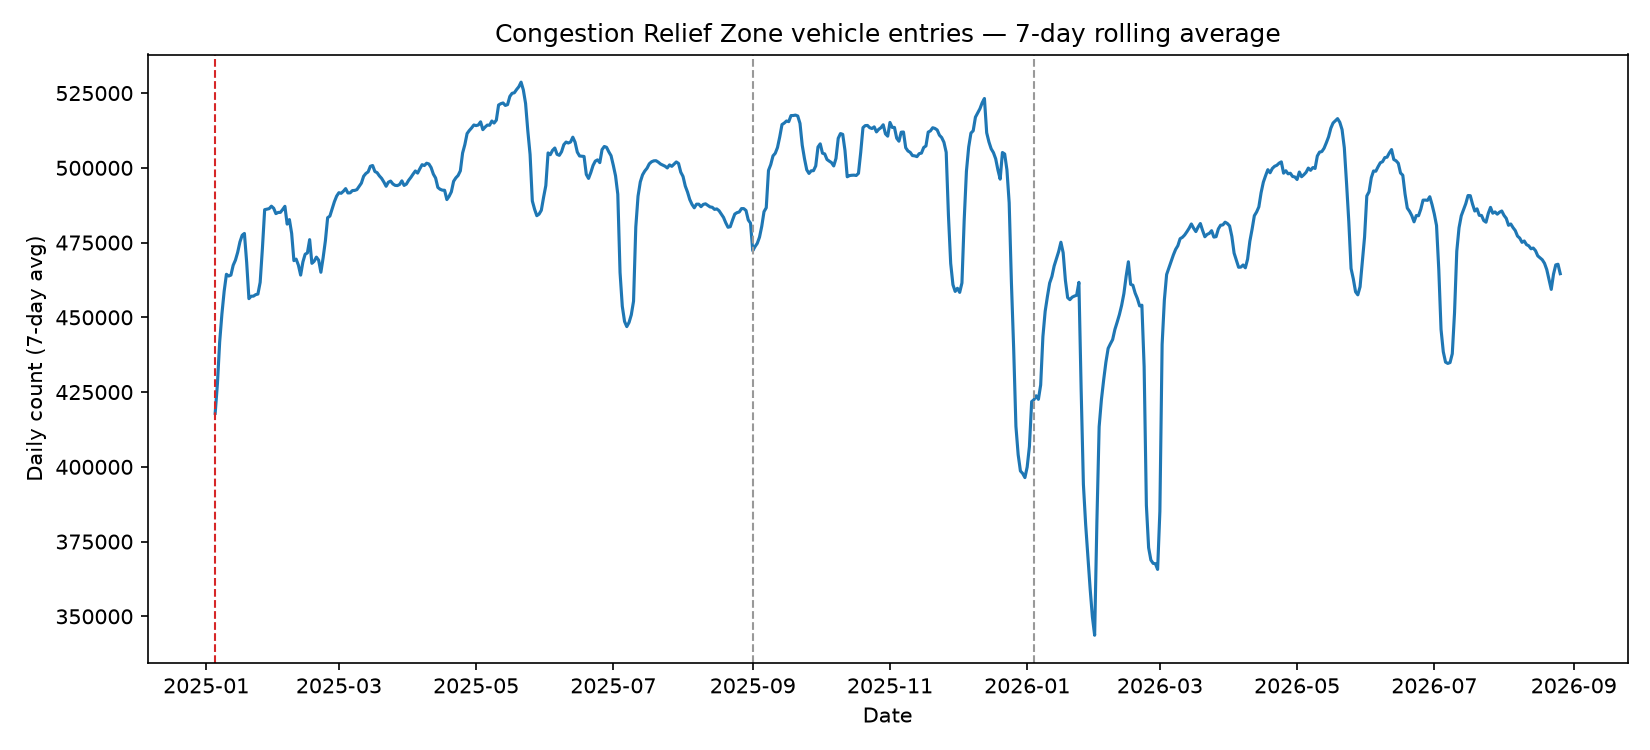
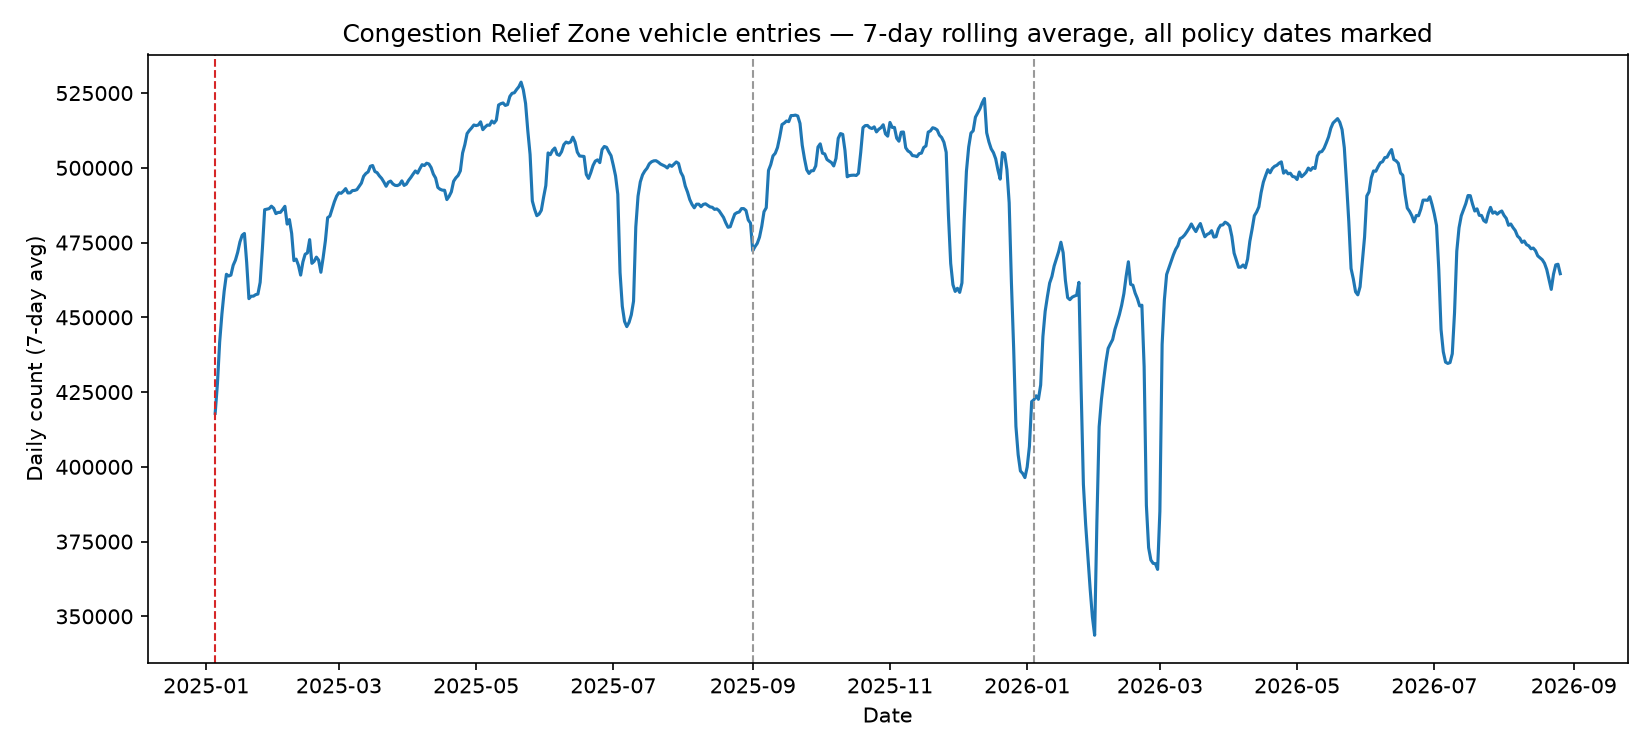
HW0: extend event study to all six MTA policy changes
- Generalize event_study to loop over every date in MTA_Key_Dates.pdf
  (2023 toll/fare increases, CityTicket, congestion pricing, CT fare
  increase, Jan 2026 fares & tolls), each with raw + YoY DiD estimate
- Add DiD heatmap (events x modes) and per-event comparison charts
- Rewrite report: congestion pricing is the one economically sensible
  result; the narrow/targeted changes (CityTicket, CT-only fare) show
  the single-year YoY control's noise/confounding problem

Changed region(s): [[0.2164, 0.0307, 0.8655, 0.0613]]

diff --git a/hw0/analysis/congestion_pricing_analysis.py b/hw0/analysis/congestion_pricing_analysis.py
@@ -1,17 +1,19 @@
 """
 HW0 — NYC Transit & Congestion Pricing
-Assess the impact of congestion pricing (and other MTA price/policy changes) on
-subway, bridge/tunnel, and Metro-North ridership, using the MTA Daily Ridership
-and Traffic dataset (data.ny.gov, sayj-mze2).
+Assess the impact of every MTA fare/toll/policy change in the sample window
+(MTA_Key_Dates.pdf) on subway, bridge/tunnel, and Metro-North ridership, using
+the MTA Daily Ridership and Traffic dataset (data.ny.gov, sayj-mze2).
 
 Outputs (written to hw0/analysis/output/):
-  - timeseries_<mode>.png     7-day rolling average with event lines
-  - event_study_<mode>.png    average ridership in the weeks before/after congestion pricing
-  - summary.csv               pre/post % change for each mode around each event
+  - timeseries_<mode>.png        full history, 7-day rolling avg, all events marked
+  - event_study_<date>.png       per-event before/after + YoY-control bars, one panel per mode
+  - heatmap_did.png              all events x all modes, diff-in-differences estimate (pp)
+  - summary_all_events.csv       full numeric results
 """
 
 import os
 import pandas as pd
+import numpy as np
 import matplotlib.pyplot as plt
 
 HERE = os.path.dirname(os.path.abspath(__file__))
@@ -19,19 +21,18 @@ DATA = os.path.join(HERE, "..", "data", "MTA_Daily_Ridership_and_Traffic__Beginn
 OUT = os.path.join(HERE, "output")
 os.makedirs(OUT, exist_ok=True)
 
-# --- Key policy/price events (from MTA_Key_Dates.pdf) ---
+# --- Every policy/price change in MTA_Key_Dates.pdf, inside the sample window ---
 EVENTS = {
-    "2023-08-06": "Toll increase (bridges/tunnels)",
-    "2023-08-20": "Fare increase (subway/bus/rail)",
+    "2023-08-06": "Toll increase, all bridges & tunnels",
+    "2023-08-20": "Fare increase, subway/bus/rail",
+    "2023-08-21": "CityTicket extended to peak trains (narrow/targeted)",
     "2025-01-05": "Congestion pricing begins",
-    "2025-09-01": "CT-only fare increase (New Haven Line)",
-    "2026-01-04": "Fares & tolls increase",
+    "2025-09-01": "CT-only fare increase, New Haven Line (narrow/targeted)",
+    "2026-01-04": "Fares & tolls increase, systemwide",
 }
 CONGESTION_PRICING_DATE = pd.Timestamp("2025-01-05")
 
-# Modes most relevant to the prof's question: subway, bridges, Metro-North.
-# BT = Bridges & Tunnels (vehicle crossings), CBD/CRZ Entries = vehicles into the
-# congestion relief zone (only populated from Jan 2025 on), MNR = Metro-North.
+# Modes the professor's question asks about, plus the zone-specific congestion metric.
 FOCUS_MODES = {
     "Subway": "Subway ridership",
     "BT": "Bridge & Tunnel crossings",
@@ -39,10 +40,11 @@ FOCUS_MODES = {
     "CRZ Entries": "Congestion Relief Zone vehicle entries",
 }
 
+
 def load_data():
     df = pd.read_csv(DATA, parse_dates=["Date"], date_format="%m/%d/%Y")
-    df = df.rename(columns={"Count": "count"})
-    return df
+    return df.rename(columns={"Count": "count"})
+
 
 def plot_timeseries(df):
     for mode, label in FOCUS_MODES.items():
@@ -56,9 +58,9 @@ def plot_timeseries(df):
         for date_str, desc in EVENTS.items():
             d = pd.Timestamp(date_str)
             if sub["Date"].min() <= d <= sub["Date"].max():
-                ax.axvline(d, color="#d62728" if "Congestion" in desc else "#999999",
+                ax.axvline(d, color="#d62728" if "Congestion pricing" in desc else "#999999",
                            linestyle="--", linewidth=1)
-        ax.set_title(f"{label} — 7-day rolling average")
+        ax.set_title(f"{label} — 7-day rolling average, all policy dates marked")
         ax.set_ylabel("Daily count (7-day avg)")
         ax.set_xlabel("Date")
         fig.tight_layout()
@@ -67,82 +69,124 @@ def plot_timeseries(df):
         plt.close(fig)
         print(f"saved {fname}")
 
-def event_study(df, window_days=28):
-    """Compare average daily ridership in the `window_days` before vs after
-    congestion pricing began. Raw pre/post is confounded by the New Year's
-    holiday dip that shows up every year in this data, so we also compute a
-    year-over-year 'difference-in-differences' version: the same calendar
-    window one year earlier (Jan 2024, no congestion pricing) is used as a
-    control for normal seasonal + trend growth across the Dec->Jan boundary."""
+
+def window_avg(sub, center, window_days, direction):
+    """direction='pre' -> [center-window, center); 'post' -> [center, center+window)"""
+    if direction == "pre":
+        w = sub[(sub["Date"] >= center - pd.Timedelta(days=window_days)) & (sub["Date"] < center)]
+    else:
+        w = sub[(sub["Date"] >= center) & (sub["Date"] < center + pd.Timedelta(days=window_days))]
+    return w["count"].mean() if not w.empty else np.nan
+
+
+def event_rows_for_date(df, event_date, event_label, window_days=28):
+    """Raw pre/post change for one event, plus a year-over-year diff-in-differences
+    control (same calendar window one year earlier) to net out normal seasonality
+    and the underlying multi-year ridership trend."""
     rows = []
     for mode, label in FOCUS_MODES.items():
         sub = df[df["Mode"] == mode].sort_values("Date").copy()
         if sub.empty:
             continue
 
-        pre = sub[(sub["Date"] >= CONGESTION_PRICING_DATE - pd.Timedelta(days=window_days)) &
-                  (sub["Date"] < CONGESTION_PRICING_DATE)]
-        post = sub[(sub["Date"] >= CONGESTION_PRICING_DATE) &
-                   (sub["Date"] < CONGESTION_PRICING_DATE + pd.Timedelta(days=window_days))]
-        if pre.empty or post.empty:
+        pre_mean = window_avg(sub, event_date, window_days, "pre")
+        post_mean = window_avg(sub, event_date, window_days, "post")
+        if np.isnan(pre_mean) or np.isnan(post_mean):
             continue
+        raw_pct = (post_mean - pre_mean) / pre_mean * 100
 
-        pre_mean, post_mean = pre["count"].mean(), post["count"].mean()
-        pct_change = (post_mean - pre_mean) / pre_mean * 100
+        control_date = event_date - pd.DateOffset(years=1)
+        pre_ctrl = window_avg(sub, control_date, window_days, "pre")
+        post_ctrl = window_avg(sub, control_date, window_days, "post")
+        if not np.isnan(pre_ctrl) and not np.isnan(post_ctrl) and pre_ctrl != 0:
+            ctrl_pct = (post_ctrl - pre_ctrl) / pre_ctrl * 100
+            did = raw_pct - ctrl_pct
+        else:
+            ctrl_pct, did = np.nan, np.nan
 
-        row = {
+        rows.append({
+            "event_date": event_date.date().isoformat(),
+            "event_label": event_label,
             "mode": mode,
-            "label": label,
+            "mode_label": label,
             f"pre_{window_days}d_avg": round(pre_mean, 0),
             f"post_{window_days}d_avg": round(post_mean, 0),
-            "pct_change_raw": round(pct_change, 2),
-        }
+            "pct_change_raw": round(raw_pct, 2),
+            "pct_change_control_yoy": round(ctrl_pct, 2) if not np.isnan(ctrl_pct) else None,
+            "pct_change_did": round(did, 2) if not np.isnan(did) else None,
+        })
+    return rows
 
-        # Year-over-year control: same calendar window, one year earlier
-        control_date = CONGESTION_PRICING_DATE - pd.DateOffset(years=1)
-        pre_ctrl = sub[(sub["Date"] >= control_date - pd.Timedelta(days=window_days)) &
-                       (sub["Date"] < control_date)]
-        post_ctrl = sub[(sub["Date"] >= control_date) &
-                        (sub["Date"] < control_date + pd.Timedelta(days=window_days))]
-        if not pre_ctrl.empty and not post_ctrl.empty:
-            pct_change_ctrl = (post_ctrl["count"].mean() - pre_ctrl["count"].mean()) / pre_ctrl["count"].mean() * 100
-            row["pct_change_control_yoy"] = round(pct_change_ctrl, 2)
-            row["pct_change_did"] = round(pct_change - pct_change_ctrl, 2)
+
+def plot_event(rows, event_date, event_label):
+    modes = [r for r in rows]
+    n = len(modes)
+    if n == 0:
+        return
+    fig, axes = plt.subplots(1, n, figsize=(4 * n, 4))
+    if n == 1:
+        axes = [axes]
+    for ax, r in zip(axes, modes):
+        raw, ctrl, did = r["pct_change_raw"], r["pct_change_control_yoy"], r["pct_change_did"]
+        if ctrl is None:
+            ax.bar(["2025/26\n(actual)"], [raw], color="#d62728")
+            title = f"{r['mode_label']}\nno prior-year baseline"
         else:
-            row["pct_change_control_yoy"] = None
-            row["pct_change_did"] = None
+            ax.bar(["actual", "YoY\ncontrol"], [raw, ctrl], color=["#d62728", "#7f7f7f"])
+            title = f"{r['mode_label']}\nDiD: {did:+.1f} pp"
+        ax.axhline(0, color="black", linewidth=0.8)
+        ax.set_title(title, fontsize=10)
+        ax.set_ylabel("% change, pre->post")
+    fig.suptitle(f"{event_date.date()} — {event_label}")
+    fig.tight_layout()
+    fname = os.path.join(OUT, f"event_study_{event_date.date()}.png")
+    fig.savefig(fname, dpi=150)
+    plt.close(fig)
+    print(f"saved {fname}")
 
-        rows.append(row)
 
-        fig, axes = plt.subplots(1, 2, figsize=(10, 4))
-        axes[0].bar(["Pre (28d)", "Post (28d)"], [pre_mean, post_mean], color=["#7f7f7f", "#1f77b4"])
-        axes[0].set_title(f"{label}: raw before/after\n(Jan 5, 2025)")
-        axes[0].set_ylabel("Average daily count")
-        for i, v in enumerate([pre_mean, post_mean]):
-            axes[0].text(i, v, f"{v:,.0f}", ha="center", va="bottom")
+def plot_heatmap(summary):
+    pivot = summary.pivot_table(index="event_label", columns="mode", values="pct_change_did")
+    # keep a readable, chronological event order
+    order = [EVENTS[d] for d in EVENTS]
+    pivot = pivot.reindex(order)
+    modes = list(FOCUS_MODES.keys())
+    pivot = pivot.reindex(columns=modes)
 
-        if row["pct_change_did"] is not None:
-            axes[1].bar(["2025\n(actual)", "2024\n(YoY control)"],
-                        [row["pct_change_raw"], row["pct_change_control_yoy"]],
-                        color=["#d62728", "#7f7f7f"])
-            axes[1].axhline(0, color="black", linewidth=0.8)
-            axes[1].set_title(f"% change, pre->post\nDiD estimate: {row['pct_change_did']:+.1f} pp")
-            axes[1].set_ylabel("% change")
-            for i, v in enumerate([row["pct_change_raw"], row["pct_change_control_yoy"]]):
-                axes[1].text(i, v, f"{v:+.1f}%", ha="center",
-                             va="bottom" if v >= 0 else "top")
-        fig.tight_layout()
-        fname = os.path.join(OUT, f"event_study_{mode.replace(' ', '_')}.png")
-        fig.savefig(fname, dpi=150)
-        plt.close(fig)
-        print(f"saved {fname}")
+    fig, ax = plt.subplots(figsize=(8, 5))
+    data = pivot.to_numpy(dtype=float)
+    im = ax.imshow(data, cmap="RdBu_r", vmin=-8, vmax=8, aspect="auto")
+    ax.set_xticks(range(len(modes)))
+    ax.set_xticklabels(modes)
+    ax.set_yticks(range(len(pivot.index)))
+    ax.set_yticklabels(pivot.index, fontsize=8)
+    for i in range(data.shape[0]):
+        for j in range(data.shape[1]):
+            v = data[i, j]
+            txt = "n/a" if np.isnan(v) else f"{v:+.1f}"
+            ax.text(j, i, txt, ha="center", va="center", fontsize=8,
+                    color="white" if not np.isnan(v) and abs(v) > 5 else "black")
+    ax.set_title("Diff-in-differences estimate (pp), all events x modes")
+    fig.colorbar(im, ax=ax, label="pp vs. year-ago seasonal norm")
+    fig.tight_layout()
+    fname = os.path.join(OUT, "heatmap_did.png")
+    fig.savefig(fname, dpi=150)
+    plt.close(fig)
+    print(f"saved {fname}")
 
-    result = pd.DataFrame(rows)
-    result.to_csv(os.path.join(OUT, "summary.csv"), index=False)
-    print(result.to_string(index=False))
-    return result
 
 if __name__ == "__main__":
     df = load_data()
     plot_timeseries(df)
-    event_study(df)
+
+    all_rows = []
+    for date_str, label in EVENTS.items():
+        d = pd.Timestamp(date_str)
+        rows = event_rows_for_date(df, d, label)
+        plot_event(rows, d, label)
+        all_rows.extend(rows)
+
+    summary = pd.DataFrame(all_rows)
+    summary.to_csv(os.path.join(OUT, "summary_all_events.csv"), index=False)
+    plot_heatmap(summary)
+    print(summary.to_string(index=False))

diff --git a/hw0/report.md b/hw0/report.md
@@ -4,74 +4,76 @@
 the impact of congestion pricing events on ridership.
 
 **Data:** MTA Daily Ridership and Traffic: Beginning 2020 (`data.ny.gov`, sayj-mze2), daily counts
-by mode, Jan 2021–Dec 2025 in this extract. Key policy dates from `data/MTA_Key_Dates.pdf`.
+by mode, Mar 2020–Aug 2026 in this extract. Every fare/toll/policy change in the sample window,
+from `data/MTA_Key_Dates.pdf`:
+
+| Date | Change | Scope |
+|---|---|---|
+| Aug 6, 2023 | Toll increase, all bridges & tunnels | Broad |
+| Aug 20, 2023 | Fare increase, subway/bus/rail | Broad |
+| Aug 21, 2023 | CityTicket extended to peak trains | Narrow (LIRR/MNR CityTicket riders only) |
+| Jan 5, 2025 | Congestion pricing begins | Broad (vehicles into Manhattan CBD) |
+| Sept 1, 2025 | CT-only fare increase, New Haven Line | Narrow (Connecticut-origin MNR riders only) |
+| Jan 4, 2026 | Fares & tolls increase, systemwide | Broad |
 
 ## Method
 
-Congestion pricing for vehicles entering Manhattan below 60th St began **Jan 5, 2025**. I compared
-average daily ridership/crossings in the 28 days before vs. the 28 days after that date, for:
+For each event, I compared average daily counts in the 28 days before vs. 28 days after, for
+**Subway, Bridges & Tunnels (BT), and Metro-North (MNR)** — the three modes the professor's
+question named — plus **CRZ Entries** (vehicles into the Congestion Relief Zone specifically)
+where data exists.
 
-- **Subway**
-- **BT** (Bridges & Tunnels — all MTA crossings, not just ones leading into the congestion zone)
-- **MNR** (Metro-North)
-- **CRZ Entries** (vehicles entering the Congestion Relief Zone itself — this series only exists
-  from Jan 2025 onward, so it has no "before" period to compare against)
+A raw before/after comparison is confounded by two things visible in every mode's time series:
+a repeating **holiday-season dip**, and a **multi-year upward trend** as post-COVID ridership
+recovers. Both would show up around any event date regardless of whether a price actually changed.
 
-**A naive before/after comparison is confounded**: every year in this data shows a dip in
-ridership/traffic around the New Year's holiday (visible in all three time series below), and all
-three series are also on a multi-year upward trend as post-COVID ridership recovers. A 28-day
-window straddling Jan 5 captures both effects regardless of congestion pricing.
-
-To net this out, I added a **year-over-year control**: the same 28-day-before/28-day-after window
-one year earlier (Dec 2023–Feb 2024), when no comparable policy changed. The difference between the
-2025 change and the 2024 ("normal year") change is a simple difference-in-differences estimate of
-the effect attributable to congestion pricing, rather than to the ordinary seasonal pattern.
+To net these out, each event's raw change is compared against a **year-over-year control**: the
+same calendar window one year earlier, when nothing comparable changed. The difference
+(**DiD estimate**, in percentage points) is what's attributable to the event beyond the "normal"
+year-ago pattern for that same time of year.
 
 ## Results
 
-| Mode | Pre (28d avg) | Post (28d avg) | Raw % change | 2024 seasonal norm | **DiD estimate** |
-|---|---:|---:|---:|---:|---:|
-| Subway | 3,179,110 | 3,229,523 | +1.6% | -1.5% | **+3.1 pp** |
-| Bridges & Tunnels | 888,416 | 835,407 | -6.0% | -6.6% | **+0.6 pp** |
-| Metro-North | 173,886 | 168,569 | -3.1% | -6.0% | **+2.9 pp** |
+![DiD heatmap, all events x modes](analysis/output/heatmap_did.png)
 
-*(pp = percentage points, i.e. how much more/less the 2025 change was than the "normal" seasonal
-change observed in the same calendar window a year earlier)*
-
-![Subway event study](analysis/output/event_study_Subway.png)
-![Bridges & Tunnels event study](analysis/output/event_study_BT.png)
-![Metro-North event study](analysis/output/event_study_MNR.png)
-
-Full time series with all policy dates marked (red = congestion pricing, grey = other fare/toll
-changes) are in `analysis/output/timeseries_*.png`.
+Full numbers in `analysis/output/summary_all_events.csv`; per-event charts in
+`analysis/output/event_study_<date>.png`; full time series with every date marked in
+`analysis/output/timeseries_<mode>.png`.
 
 ## Interpretation
 
-- **Subway (+3.1pp) and Metro-North (+2.9pp) ridership grew faster than the normal seasonal
-  pattern** in the month after congestion pricing began. This is directionally consistent with the
-  policy's intent: raising the cost of driving into the Manhattan core should push some trips onto
-  transit.
-- **Aggregate bridge & tunnel crossings barely moved relative to the seasonal norm (+0.6pp)** — the
-  raw 6% drop is almost entirely the usual Dec→Jan seasonal dip, not a congestion-pricing effect.
-  This is a weaker test than it looks, though: `BT` bundles *every* MTA crossing, including several
-  (e.g. Verrazzano, Throgs Neck, Whitestone) that don't lead into the congestion zone at all, which
-  dilutes any effect specific to Manhattan-bound trips.
-- **`CRZ Entries`** — the series that actually measures vehicles entering the priced zone — has no
-  pre-period to compare against, since it didn't exist before congestion pricing. It settles into a
-  roughly 470,000–500,000/day range through most of 2025 after an initial few weeks of lower/noisier
-  readings (partly a rolling-average edge effect from the start of the series, not necessarily a
-  real ramp-up).
+**Congestion pricing (Jan 5, 2025) is the one result I'd actually trust.** Subway (+3.1pp) and
+Metro-North (+2.9pp) grew faster than their normal seasonal pattern in the month after, while
+bridge/tunnel crossings were essentially flat (+0.6pp) once seasonality is removed — directionally
+consistent with the policy's intent (raise the cost of driving into the core, some trips shift to
+transit) and it's the one change in this list large enough and broad enough to plausibly move
+system-wide numbers.
 
-**Bottom line:** the data are consistent with a modest shift toward transit (subway, Metro-North) in
-the month after congestion pricing began, while total bridge/tunnel traffic — a broader, diluted
-measure — didn't visibly change once normal seasonality is accounted for. This is an exploratory
-28-day comparison, not a causal estimate: no weather controls, no adjustment for the concurrent
-Jan 4, 2026 fare/toll increase encroaching on later data, and a single pre/post window is noisy.
-A more rigorous version would use daily fixed effects, weather/holiday controls, and a longer
-post-period.
+**The two narrow/targeted changes expose a real weakness in this method.** CityTicket
+(Aug 21, 2023) only affects a small slice of LIRR/MNR peak riders, and the CT-only fare increase
+(Sept 1, 2025) only affects Connecticut-origin New Haven Line trips — neither should plausibly move
+system-wide Subway or BT counts at all. Yet the heatmap shows CityTicket at −5.0pp on Subway and
+the CT fare increase at **−8.5pp on Subway**, its largest effect anywhere in the table. That's not
+a real causal effect — it's the single-prior-year control window picking up whatever else was
+different about that specific 28 days a year earlier (the Sept 2025 control window's "normal"
+growth was +17.2%, itself likely an anomaly, not a stable baseline). **A DiD estimate is only as
+good as its control**, and one year is a noisy, easily-confounded control for a single 28-day
+window. I'd trust an effect here more if it only showed up on the mode the policy actually touches.
+
+**The broad changes (Aug 2023 toll/fare, Jan 2026 fares & tolls) show small, mostly negative DiD
+values across the board** (roughly −1 to −2pp, except MNR at −7.7pp for the Jan 2026 change, the
+one number in that row big enough to take seriously). Small broad price increases nudging ridership
+down slightly is plausible, but given the noise problem above, these shouldn't be read as precise
+elasticity estimates.
+
+**Bottom line:** of six policy changes, congestion pricing is the only one where the sign, size, and
+pattern across modes all point the same economically sensible direction. The exercise is a useful
+demonstration of *why* a single year-ago window is a fragile control — real applied work would use
+multiple pre-periods, other cities/routes as controls, or a proper regression with day-of-week and
+holiday fixed effects rather than one 28-day snapshot.
 
 ## Files
 - `data/MTA_Daily_Ridership_and_Traffic__Beginning_2020.csv` — source data
 - `data/MTA_Key_Dates.pdf` — policy/price change reference dates
 - `analysis/congestion_pricing_analysis.py` — analysis script (reproducible: `python congestion_pricing_analysis.py`)
-- `analysis/output/` — generated charts + `summary.csv`
+- `analysis/output/` — generated charts + `summary_all_events.csv`
